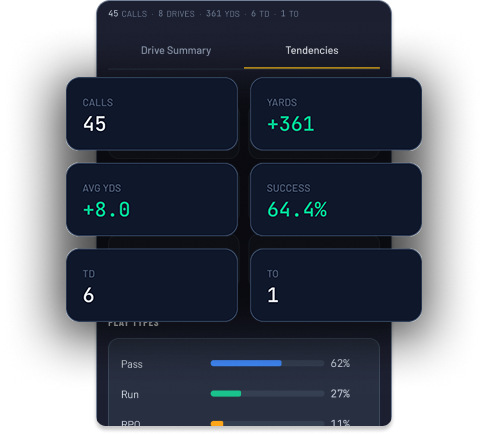
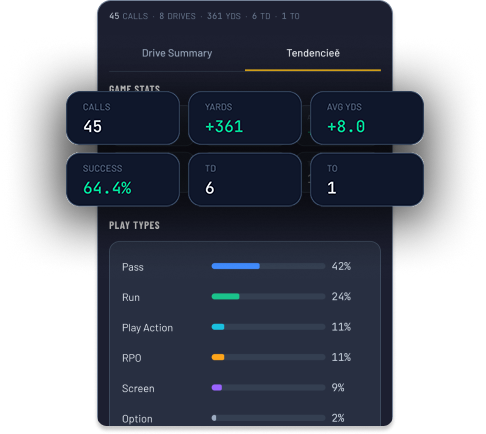
assets(onboarding): update carousel slide 3 PNG
Replace slide-3-improve.png for OnboardingCarousel. Document in both changelogs.

diff --git a/sideline/CHANGELOG.md b/sideline/CHANGELOG.md
@@ -4,6 +4,16 @@ All notable changes to The Sideline are documented here. Updated on every push.
 
 ---
 
+## 2026-05-04 (Onboarding — carousel slide 3 image)
+
+**What:** Replaced **`public/onboarding/slide-3-improve.png`** (**`OnboardingCarousel`** slide asset).
+
+**Why:** Visual refresh for the third onboarding slide only; no component or copy changes.
+
+**Status after this push:** Asset; repo-root and this **`CHANGELOG.md`**; `npm run build` from `sideline/` unchanged.
+
+---
+
 ## 2026-05-04 (Settings / API — account deletion FK order + step logging)
 
 **What:** **`DELETE /api/account`** ([`app/api/account/route.ts`](app/api/account/route.ts)): deletes user-owned **`play_sheet_plays`**, **`play_sheet_scenarios`**, **`dismissed_suggestions`**, **`play_sheets`**, **`logged_plays`**, **`drives`**, **`game_sessions`**, **`user_profiles`** (each **`.eq("user_id", uid)`**) in that order, then **`auth.admin.deleteUser`**; checks **`error`** on every table delete; **`console.error`** with **`[DELETE /api/account] step=<name>`** plus Supabase error on failure; outer **`catch`** logs **`step=unexpected`**. **`BUILD_CONTRACT.md`**, **`DECISIONS.md`**, repo-root **`CHANGELOG.md`**.

diff --git a/CHANGELOG.md b/CHANGELOG.md
@@ -4,6 +4,22 @@ All notable changes to **The Sideline** (CFB play-calling / film logging assista
 
 ---
 
+## 2026-05-04 — Onboarding: carousel slide 3 PNG
+
+### What
+
+- **[`sideline/public/onboarding/slide-3-improve.png`](sideline/public/onboarding/slide-3-improve.png):** Updated raster for **`OnboardingCarousel`** slide 3 (**improve**).
+
+### Why
+
+Asset-only refresh; **`components/shared/OnboardingCarousel.tsx`** references unchanged.
+
+### Status after this push
+
+- `npm run build` from `sideline/` expected to pass.
+
+---
+
 ## 2026-05-04 — Settings / API: account deletion teardown order and server logging
 
 ### What
